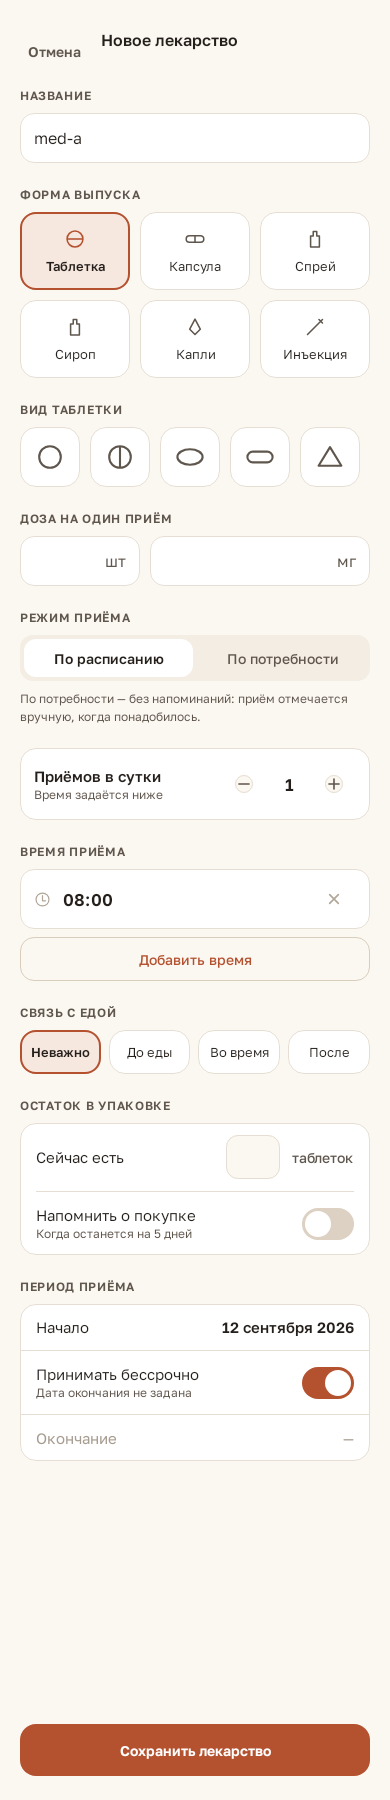
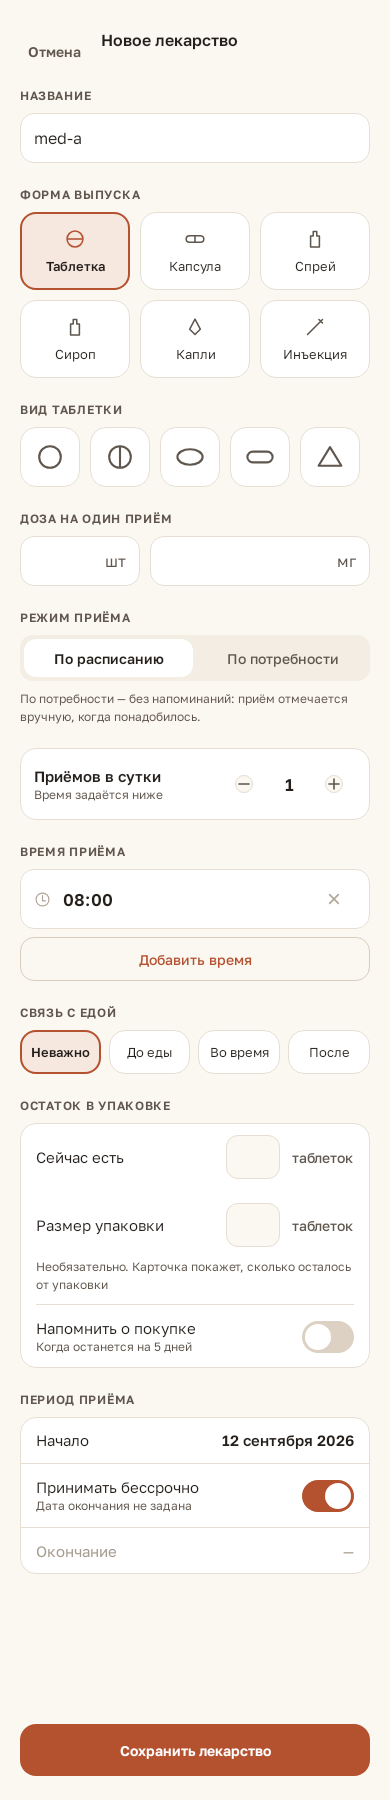
feat(SKL-34): add the package size row to the medication form

Changed region(s): [[0.0923, 0.6533, 0.4923, 0.8711], [0.5538, 0.6533, 0.9538, 0.84], [0.5538, 0.6844, 0.6154, 0.7156]]

diff --git a/feature-meds/src/main/kotlin/ru/stohastika/sklyanka/feature/meds/form/StockAndPeriodBlocks.kt b/feature-meds/src/main/kotlin/ru/stohastika/sklyanka/feature/meds/form/StockAndPeriodBlocks.kt
@@ -35,38 +35,45 @@ import ru.stohastika.sklyanka.ui.token.SklyankaType
  * приём (ПР-6). Флаг рядом со значением позволил бы собрать «бессрочно, но до 30 сентября».
  */
 
-/** «Остаток в упаковке»: сколько есть сейчас и порог напоминания о покупке. */
+/**
+ * «Остаток в упаковке»: сколько есть сейчас, размер упаковки и порог напоминания о покупке.
+ *
+ * Строка «Размер упаковки» стоит сразу под «Сейчас есть» и повторяет её: компактное
+ * числовое поле с той же единицей. Порядок — решение ОВ-45: привычное первое число
+ * не двигается, а новое читается вместе с ним. Поле необязательное: пустое значит
+ * «размер не задан», автоматически из остатка не подставляется — подставленный
+ * знаменатель выдавался бы за измеренный.
+ */
 @Composable
 internal fun StockBlock(state: MedFormUiState, onIntent: (MedFormIntent) -> Unit, anchors: FormAnchors) {
-    val colors = SklyankaTheme.colors
     val threshold = state.draft.stockThresholdDays
+    val packageViolation = state.violationOf(DraftField.PACKAGE_SIZE)
     FormBlock(stringResource(R.string.form_label_stock), DraftField.STOCK, anchors) {
         SectionCard {
-            Row(
+            StockValueRow(
+                label = stringResource(R.string.form_stock_now),
+                value = state.inputs.stockLeft,
+                onValueChange = { onIntent(MedFormIntent.StockChanged(it)) },
+                unit = state.applicability.doseUnit.stockLabel(),
+                tags = StockRowTags(field = TAG_STOCK_FIELD, unit = TAG_STOCK_UNIT),
+            )
+            StockValueRow(
+                label = stringResource(R.string.form_package_size),
+                value = state.inputs.packageSize,
+                onValueChange = { onIntent(MedFormIntent.PackageSizeChanged(it)) },
+                unit = state.applicability.doseUnit.stockLabel(),
+                tags = StockRowTags(field = TAG_PACKAGE_SIZE_FIELD, unit = TAG_PACKAGE_SIZE_UNIT),
+                error = packageViolation != null,
+            )
+            Text(
+                text = stringResource(R.string.form_package_size_hint),
+                style = SklyankaType.CaptionSmall,
+                color = SklyankaTheme.colors.textMuted,
                 modifier = Modifier
-                    .fillMaxWidth()
-                    .padding(horizontal = SklyankaSpacing.Block, vertical = SklyankaSpacing.Medium),
-                verticalAlignment = Alignment.CenterVertically,
-                horizontalArrangement = Arrangement.spacedBy(SklyankaSpacing.Medium),
-            ) {
-                Text(
-                    text = stringResource(R.string.form_stock_now),
-                    style = SklyankaType.BodyDefault,
-                    color = colors.text,
-                    modifier = Modifier.weight(1f),
-                )
-                SklyankaNumberField(
-                    value = state.inputs.stockLeft,
-                    onValueChange = { onIntent(MedFormIntent.StockChanged(it)) },
-                    modifier = Modifier.width(SklyankaSizes.StockField).testTag(TAG_STOCK_FIELD),
-                )
-                Text(
-                    text = state.applicability.doseUnit.stockLabel(),
-                    style = SklyankaType.Label,
-                    color = colors.textMuted,
-                    modifier = Modifier.testTag(TAG_STOCK_UNIT),
-                )
-            }
+                    .padding(horizontal = SklyankaSpacing.Block)
+                    .padding(bottom = SklyankaSpacing.Medium)
+                    .testTag(TAG_PACKAGE_SIZE_HINT),
+            )
             RowDivider(modifier = Modifier.padding(horizontal = SklyankaSpacing.Block))
             SklyankaSwitchRow(
                 label = stringResource(R.string.form_stock_reminder),
@@ -81,6 +88,49 @@ internal fun StockBlock(state: MedFormUiState, onIntent: (MedFormIntent) -> Unit
             )
         }
         state.violationOf(DraftField.STOCK)?.let { ViolationText(it.message()) }
+        packageViolation?.let { ViolationText(it.message()) }
+    }
+}
+
+/** Теги строки остатка: поле и его единица — их ищут экранные проверки. */
+private data class StockRowTags(val field: String, val unit: String)
+
+/** Строка «надпись — числовое поле — единица»: «Сейчас есть» и «Размер упаковки» устроены одинаково. */
+@Composable
+private fun StockValueRow(
+    label: String,
+    value: String,
+    onValueChange: (String) -> Unit,
+    unit: String,
+    tags: StockRowTags,
+    error: Boolean = false,
+) {
+    val colors = SklyankaTheme.colors
+    Row(
+        modifier = Modifier
+            .fillMaxWidth()
+            .padding(horizontal = SklyankaSpacing.Block, vertical = SklyankaSpacing.Medium),
+        verticalAlignment = Alignment.CenterVertically,
+        horizontalArrangement = Arrangement.spacedBy(SklyankaSpacing.Medium),
+    ) {
+        Text(
+            text = label,
+            style = SklyankaType.BodyDefault,
+            color = colors.text,
+            modifier = Modifier.weight(1f),
+        )
+        SklyankaNumberField(
+            value = value,
+            onValueChange = onValueChange,
+            error = error,
+            modifier = Modifier.width(SklyankaSizes.StockField).testTag(tags.field),
+        )
+        Text(
+            text = unit,
+            style = SklyankaType.Label,
+            color = colors.textMuted,
+            modifier = Modifier.testTag(tags.unit),
+        )
     }
 }
 
@@ -137,6 +187,9 @@ private const val DEFAULT_THRESHOLD_DAYS = 5
 const val TAG_STOCK_FIELD = "form_stock"
 const val TAG_STOCK_UNIT = "form_stock_unit"
 const val TAG_STOCK_REMINDER = "form_stock_reminder"
+const val TAG_PACKAGE_SIZE_FIELD = "form_package_size"
+const val TAG_PACKAGE_SIZE_UNIT = "form_package_size_unit"
+const val TAG_PACKAGE_SIZE_HINT = "form_package_size_hint"
 const val TAG_START_DATE = "form_start_date"
 const val TAG_INDEFINITE = "form_indefinite"
 const val TAG_END_DATE = "form_end_date"

diff --git a/feature-meds/src/testDebug/kotlin/ru/stohastika/sklyanka/feature/meds/MedicationFormScreenTest.kt b/feature-meds/src/testDebug/kotlin/ru/stohastika/sklyanka/feature/meds/MedicationFormScreenTest.kt
@@ -17,6 +17,7 @@ import org.junit.Assert.assertTrue
 import org.junit.Rule
 import org.junit.Test
 import org.junit.runner.RunWith
+import ru.stohastika.sklyanka.domain.medication.DraftViolation
 import ru.stohastika.sklyanka.domain.medication.MedicationDraft
 import ru.stohastika.sklyanka.domain.model.MedicationForm
 import ru.stohastika.sklyanka.domain.model.ScheduleMode
@@ -25,12 +26,17 @@ import ru.stohastika.sklyanka.feature.meds.form.FormMode
 import ru.stohastika.sklyanka.feature.meds.form.MedFormUiState
 import ru.stohastika.sklyanka.feature.meds.form.MedicationFormScreen
 import ru.stohastika.sklyanka.feature.meds.form.TAG_MAX_PER_DAY
+import ru.stohastika.sklyanka.feature.meds.form.TAG_PACKAGE_SIZE_FIELD
+import ru.stohastika.sklyanka.feature.meds.form.TAG_PACKAGE_SIZE_HINT
+import ru.stohastika.sklyanka.feature.meds.form.TAG_PACKAGE_SIZE_UNIT
 import ru.stohastika.sklyanka.feature.meds.form.TAG_SAVE_BUTTON
+import ru.stohastika.sklyanka.feature.meds.form.TAG_STOCK_FIELD
 import ru.stohastika.sklyanka.feature.meds.form.TAG_STOCK_UNIT
 import ru.stohastika.sklyanka.feature.meds.form.TAG_TABLET_SHAPE_ROW
 import ru.stohastika.sklyanka.feature.meds.form.TAG_TIMES_BLOCK
 import ru.stohastika.sklyanka.ui.component.TAG_SCREEN_HEADER
 import ru.stohastika.sklyanka.ui.theme.SklyankaTheme
+import java.math.BigDecimal
 import java.time.LocalDate
 import java.time.LocalTime
 import ru.stohastika.sklyanka.ui.R as UiR
@@ -148,6 +154,43 @@ class MedicationFormScreenTest {
     }
 
     @Test
+    fun thePackageSizeRowStandsRightUnderTheCurrentStock() {
+        show(draft())
+
+        composeRule.onNodeWithText(context.getString(R.string.form_package_size)).assertIsDisplayed()
+        val stockY = composeRule.onNodeWithTag(TAG_STOCK_FIELD).fetchSemanticsNode().positionInRoot.y
+        val packageY = composeRule.onNodeWithTag(TAG_PACKAGE_SIZE_FIELD).fetchSemanticsNode().positionInRoot.y
+        assertTrue("the package size must stand under the stock: $packageY < $stockY", packageY > stockY)
+    }
+
+    @Test
+    fun thePackageSizeRowRepeatsTheStockUnit() {
+        show(draft(form = MedicationForm.SYRUP))
+
+        composeRule
+            .onNodeWithTag(TAG_PACKAGE_SIZE_UNIT)
+            .assertTextEquals(context.getString(R.string.stock_unit_millilitres))
+    }
+
+    @Test
+    fun thePackageSizeRowCarriesItsHint() {
+        show(draft())
+
+        composeRule.onNodeWithTag(TAG_PACKAGE_SIZE_HINT).assertIsDisplayed()
+        composeRule.onNodeWithText(context.getString(R.string.form_package_size_hint)).assertIsDisplayed()
+    }
+
+    @Test
+    fun thePackageSizeErrorIsSpelledOutUnderTheBlock() {
+        show(
+            draft().copy(packageSize = BigDecimal.ZERO),
+            violations = listOf(DraftViolation.PackageSizeNotPositive),
+        )
+
+        composeRule.onNodeWithText(context.getString(R.string.error_package_size_not_positive)).assertIsDisplayed()
+    }
+
+    @Test
     fun anOpenEndedCourseGreysOutTheEndDate() {
         show(draft())
 
@@ -215,11 +258,15 @@ class MedicationFormScreenTest {
         }
     }
 
-    private fun show(draft: MedicationDraft, mode: FormMode = FormMode.Create) {
+    private fun show(
+        draft: MedicationDraft,
+        mode: FormMode = FormMode.Create,
+        violations: List<DraftViolation> = emptyList(),
+    ) {
         composeRule.setContent {
             SklyankaTheme {
                 MedicationFormScreen(
-                    state = MedFormUiState.of(draft, mode, FormInputs()),
+                    state = MedFormUiState.of(draft, mode, FormInputs()).copy(violations = violations),
                     onIntent = {},
                     onCancel = {},
                     onPickDate = {},

diff --git a/feature-meds/src/test/kotlin/ru/stohastika/sklyanka/feature/meds/MedicationFormViewModelTest.kt b/feature-meds/src/test/kotlin/ru/stohastika/sklyanka/feature/meds/MedicationFormViewModelTest.kt
@@ -260,6 +260,56 @@ class MedicationFormViewModelTest {
         assertNull(model.state.value!!.draft.strength)
     }
 
+    @Test
+    fun `the package size is typed in and kept as text and as a number`() = runTest(dispatcher) {
+        open()
+
+        model.onIntent(MedFormIntent.PackageSizeChanged("60"))
+
+        val state = model.state.value!!
+        assertEquals(BigDecimal("60"), state.draft.packageSize)
+        assertEquals("60", state.inputs.packageSize)
+    }
+
+    @Test
+    fun `the package size is not filled in from the stock and stays unknown`() = runTest(dispatcher) {
+        open()
+
+        model.onIntent(MedFormIntent.StockChanged("9"))
+
+        val state = model.state.value!!
+        assertEquals(BigDecimal("9"), state.draft.stockLeft)
+        assertNull("the denominator must never be guessed from the stock", state.draft.packageSize)
+    }
+
+    @Test
+    fun `a zero package size is refused with the field named`() = runTest(dispatcher) {
+        open()
+        model.onIntent(MedFormIntent.NameChanged("med-a"))
+        model.onIntent(MedFormIntent.TimeAdded)
+        model.onIntent(MedFormIntent.DoseAmountChanged("2"))
+        model.onIntent(MedFormIntent.PackageSizeChanged("0"))
+
+        model.onIntent(MedFormIntent.Save)
+        advanceUntilIdle()
+
+        val state = model.state.value!!
+        assertFalse(state.saved)
+        assertTrue(DraftViolation.PackageSizeNotPositive in state.violations)
+        assertEquals(DraftField.PACKAGE_SIZE, state.firstViolationField)
+        assertEquals("what was typed must survive the refusal", "0", state.inputs.packageSize)
+    }
+
+    @Test
+    fun `editing fills the package size text from the stored course`() = runTest(dispatcher) {
+        medications.put(MedsTestData.medication(id = "magnesium", name = "med-a").copy(packageSize = BigDecimal("60")))
+
+        model.open("magnesium")
+        advanceUntilIdle()
+
+        assertEquals("60", model.state.value!!.inputs.packageSize)
+    }
+
     // --- Сохранение и отказ -------------------------------------------------------------------
 
     @Test

diff --git a/core-ui/src/main/kotlin/ru/stohastika/sklyanka/ui/component/TextField.kt b/core-ui/src/main/kotlin/ru/stohastika/sklyanka/ui/component/TextField.kt
@@ -180,13 +180,21 @@ private fun borderWidthOf(state: TextFieldState) =
         SklyankaSizes.BorderThin
     }
 
-/** Компактное числовое поле: счётчик приёмов в сутки, доза. */
+/**
+ * Компактное числовое поле: счётчик приёмов в сутки, доза, размер упаковки.
+ *
+ * [error] — состояние ошибки ОВ-38 для поля без собственной подписи под ним: рамка
+ * утолщается и окрашивается `warning` (та же пара, что у [SklyankaTextField]).
+ * Пояснение к ошибке рисует блок, в котором стоит поле, — у компактного поля нет
+ * места под текст.
+ */
 @Composable
 fun SklyankaNumberField(
     value: String,
     onValueChange: (String) -> Unit,
     modifier: Modifier = Modifier,
     enabled: Boolean = true,
+    error: Boolean = false,
 ) {
     val colors = SklyankaTheme.colors
     Box(
@@ -196,7 +204,11 @@ fun SklyankaNumberField(
             // нажатия, а не плотности вёрстки (см. `Modifier.minTouchTarget`, ОВ-17).
             .height(SklyankaSizes.CompactFieldHeight.coerceAtLeast(SklyankaSizes.MinTouchTarget))
             .background(colors.background, SklyankaShapes.Compact)
-            .border(SklyankaSizes.BorderThin, colors.line, SklyankaShapes.Compact)
+            .border(
+                if (error) SklyankaSizes.BorderAccent else SklyankaSizes.BorderThin,
+                if (error) colors.warning else colors.line,
+                SklyankaShapes.Compact,
+            )
             .padding(horizontal = SklyankaSizes.BannerPaddingVertical)
             .testTag(TAG_NUMBER_FIELD),
         contentAlignment = Alignment.Center,

diff --git a/feature-meds/src/main/kotlin/ru/stohastika/sklyanka/feature/meds/form/MedicationFormViewModel.kt b/feature-meds/src/main/kotlin/ru/stohastika/sklyanka/feature/meds/form/MedicationFormViewModel.kt
@@ -114,6 +114,12 @@ class MedicationFormViewModel @Inject constructor(
             is MedFormIntent.StockChanged ->
                 state.with(draft.copy(stockLeft = decimalOf(intent.text)), inputs.copy(stockLeft = intent.text))
 
+            is MedFormIntent.PackageSizeChanged ->
+                state.with(
+                    draft.copy(packageSize = decimalOf(intent.text)),
+                    inputs.copy(packageSize = intent.text),
+                )
+
             is MedFormIntent.StockReminderToggled -> state.with(
                 draft.copy(stockThresholdDays = if (intent.enabled) DEFAULT_THRESHOLD_DAYS else null),
             )
@@ -168,6 +174,7 @@ class MedicationFormViewModel @Inject constructor(
         doseAmount = draft.doseAmount.plain(),
         strength = draft.strength.plain(),
         stockLeft = draft.stockLeft.plain(),
+        packageSize = draft.packageSize.plain(),
     )
 
     private fun BigDecimal?.plain(): String = this?.stripTrailingZeros()?.toPlainString().orEmpty()

diff --git a/feature-meds/src/testDebug/kotlin/ru/stohastika/sklyanka/acceptance/meds/MedsFormStand.kt b/feature-meds/src/testDebug/kotlin/ru/stohastika/sklyanka/acceptance/meds/MedsFormStand.kt
@@ -180,6 +180,11 @@ internal object MedsFormStand {
                 inputs.copy(stockLeft = intent.text),
             )
 
+            is MedFormIntent.PackageSizeChanged -> current.with(
+                draft.copy(packageSize = decimalOf(intent.text)),
+                inputs.copy(packageSize = intent.text),
+            )
+
             is MedFormIntent.StockReminderToggled -> current.with(
                 draft.copy(stockThresholdDays = if (intent.enabled) DEFAULT_THRESHOLD_DAYS else null),
             )
@@ -210,6 +215,7 @@ internal object MedsFormStand {
         doseAmount = draft.doseAmount.plain(),
         strength = draft.strength.plain(),
         stockLeft = draft.stockLeft.plain(),
+        packageSize = draft.packageSize.plain(),
     )
 
     private fun BigDecimal?.plain(): String = this?.stripTrailingZeros()?.toPlainString().orEmpty()

diff --git a/core-ui/src/testDebug/kotlin/ru/stohastika/sklyanka/ui/snapshot/ComponentStateSnapshotTest.kt b/core-ui/src/testDebug/kotlin/ru/stohastika/sklyanka/ui/snapshot/ComponentStateSnapshotTest.kt
@@ -140,6 +140,15 @@ class ComponentStateSnapshotTest {
         capture("text-field-number") {
             SklyankaNumberField(value = context.getString(R.string.preview_time), onValueChange = {})
         }
+        // Ошибка компактного поля: рамка 1,5 dp цветом warning (ОВ-38), без подписи —
+        // пояснение рисует блок, в котором стоит поле (SKL-34).
+        capture("number-field-error") {
+            SklyankaNumberField(
+                value = context.getString(R.string.preview_time),
+                onValueChange = {},
+                error = true,
+            )
+        }
     }
 
     @Test

diff --git a/feature-meds/src/main/kotlin/ru/stohastika/sklyanka/feature/meds/form/MedFormUiState.kt b/feature-meds/src/main/kotlin/ru/stohastika/sklyanka/feature/meds/form/MedFormUiState.kt
@@ -29,7 +29,12 @@ sealed interface FormMode {
  * в сохранении — а критерий приёмки прямо требует, чтобы форма осталась заполненной.
  */
 @Immutable
-data class FormInputs(val doseAmount: String = "", val strength: String = "", val stockLeft: String = "")
+data class FormInputs(
+    val doseAmount: String = "",
+    val strength: String = "",
+    val stockLeft: String = "",
+    val packageSize: String = "",
+)
 
 /**
  * Состояние формы лекарства.

diff --git a/feature-meds/src/main/kotlin/ru/stohastika/sklyanka/feature/meds/form/MedFormIntent.kt b/feature-meds/src/main/kotlin/ru/stohastika/sklyanka/feature/meds/form/MedFormIntent.kt
@@ -49,6 +49,9 @@ sealed interface MedFormIntent {
 
     data class StockChanged(val text: String) : MedFormIntent
 
+    /** Размер упаковки (ОВ-45): необязательное числовое поле под остатком. */
+    data class PackageSizeChanged(val text: String) : MedFormIntent
+
     /** «Напомнить о покупке»: включает и выключает порог остатка. */
     data class StockReminderToggled(val enabled: Boolean) : MedFormIntent
 
